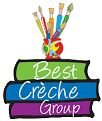
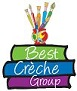
latest

diff --git a/index.html b/index.html
@@ -44,7 +44,7 @@
     <div class="container d-flex justify-content-between align-items-center">
 
       <div id="logo">
-        <a href="index.html"><img src="assets\img\BestCrecheGroupLogo.png" alt=""></a>
+        <a href="index.html"><img src="assets\img\nav_logo-removebg-preview (1).png" alt=""></a>
         <!-- Uncomment below if you prefer to use a text logo -->
         <!--<h1><a href="index.html">Regna</a></h1>-->
       </div>
@@ -269,7 +269,7 @@
         Licensing information: https://bootstrapmade.com/license/
         Purchase the pro version with working PHP/AJAX contact form: https://bootstrapmade.com/buy/?theme=Regna
       -->
-        Designed by <a href="https://www.thewellab.ie/">The Web Lab</a>
+        Designed by <a href="https://www.theweblab.ie/">The Web Lab</a>
       </div>
     </div>
   </footer><!-- End Footer -->

diff --git a/assets/css/style.css b/assets/css/style.css
@@ -1160,3 +1160,7 @@ section {
   font-size: 13px;
   color: #ccc;
 }
+
+/* Custom css */
+
+#services .row {justify-content: space-around;}
